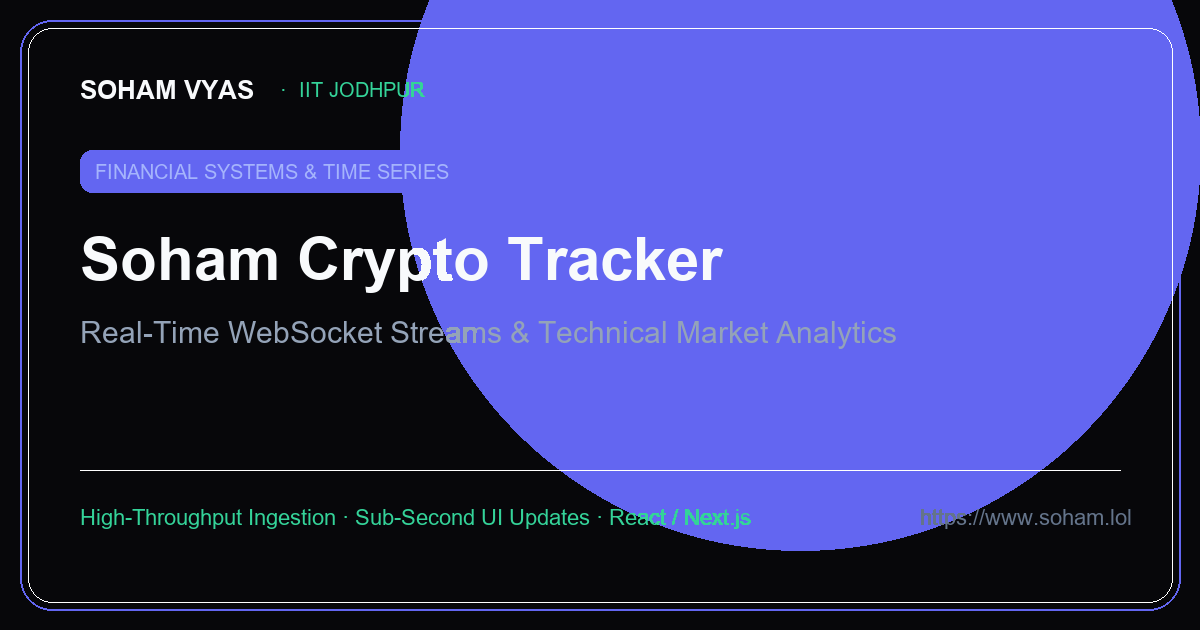
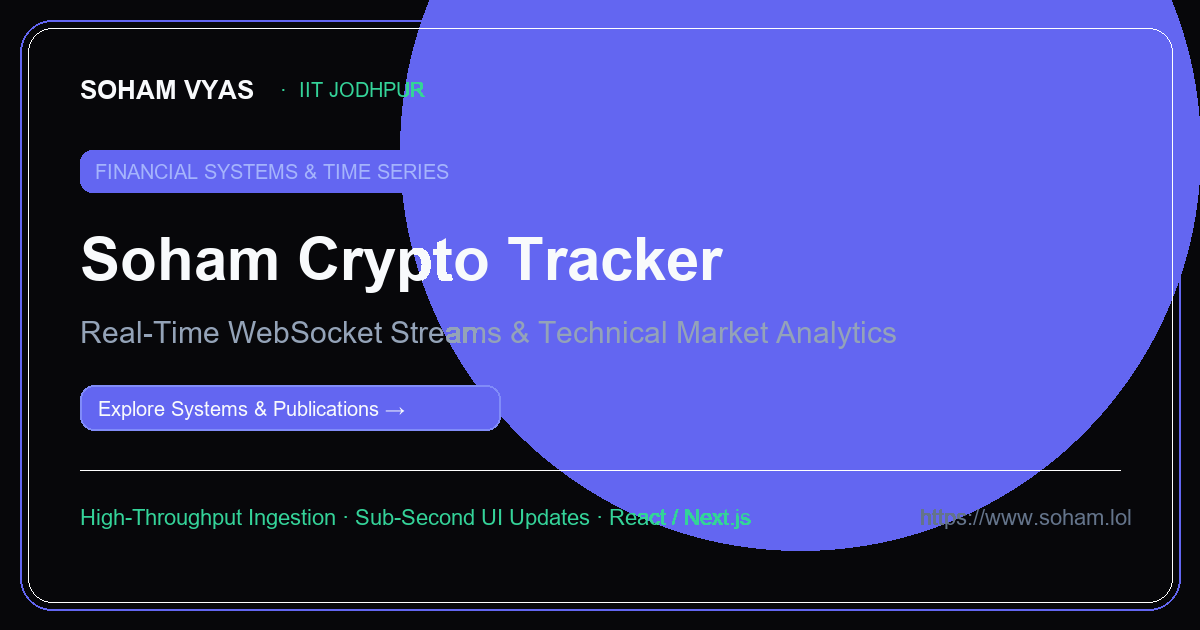
fix(seo): optimize title & description character lengths for social cards, add conversion CTA to OG images

Changed region(s): [[0.0617, 0.6032, 0.4317, 0.6937]]

diff --git a/app/layout.tsx b/app/layout.tsx
@@ -20,11 +20,11 @@ const outfit = Outfit({
 export const metadata: Metadata = {
   metadataBase: new URL("https://www.soham.lol"),
   title: {
-    default: "Soham Vyas — IIT Jodhpur | AI Systems Engineer & Open Source Contributor",
-    template: "%s | Soham Vyas — IIT Jodhpur",
+    default: "Soham Vyas — IIT Jodhpur | AI Systems Engineer",
+    template: "%s | Soham Vyas",
   },
   description:
-    "Official portfolio of Soham Vyas, Bachelor of Science (Hons) in Data Science & AI at IIT Jodhpur. Building production AI systems and SymPy matrix logic.",
+    "Undergraduate in Data Science & AI at IIT Jodhpur. Building production AI systems, atomic Redis rate limiters, and upstream SymPy computer algebra.",
   keywords: [
     "Soham Vyas",
     "Soham Vyas IIT",
@@ -59,24 +59,24 @@ export const metadata: Metadata = {
     type: "website",
     locale: "en_US",
     url: "https://www.soham.lol/",
-    title: "Soham Vyas — IIT Jodhpur | AI Systems Engineer & Open Source Contributor",
+    title: "Soham Vyas — IIT Jodhpur | AI Systems Engineer",
     description:
-      "Official portfolio of Soham Vyas, Bachelor of Science (Hons) in Data Science & AI at IIT Jodhpur. Building production AI systems, rate limiters, neural speech pipelines, and SymPy computer algebra contributions.",
-    siteName: "Soham Vyas | IIT Jodhpur Portfolio",
+      "Data Science & AI at IIT Jodhpur. Building production systems, atomic Redis rate limiters, and upstream SymPy computer algebra.",
+    siteName: "Soham Vyas | IIT Jodhpur",
     images: [
       {
         url: "https://www.soham.lol/assets/og-image.png",
         width: 1200,
         height: 630,
-        alt: "Soham Vyas — IIT Jodhpur | AI Systems Engineer & Open Source Contributor",
+        alt: "Soham Vyas — IIT Jodhpur | AI Systems Engineer",
       },
     ],
   },
   twitter: {
     card: "summary_large_image",
-    title: "Soham Vyas — IIT Jodhpur | AI Systems Engineer & Open Source Contributor",
+    title: "Soham Vyas — IIT Jodhpur | AI Systems Engineer",
     description:
-      "Bachelor of Science (Hons) in Data Science & AI @ IIT Jodhpur. Building production-grade systems and contributing to SymPy.",
+      "Data Science & AI at IIT Jodhpur. Building production systems, atomic Redis rate limiters, and upstream SymPy computer algebra.",
     images: ["https://www.soham.lol/assets/og-image.png"],
     creator: "@Soham_Vyas_",
   },

diff --git a/app/page.tsx b/app/page.tsx
@@ -14,8 +14,33 @@ import CommandPalette from "./components/CommandPalette";
 import Parallax3DBackground from "./components/Parallax3DBackground";
 
 export const metadata: Metadata = {
+  title: "Soham Vyas — IIT Jodhpur | AI Systems Engineer",
+  description:
+    "Undergraduate in Data Science & AI at IIT Jodhpur. Building production AI systems, atomic Redis rate limiters, and upstream SymPy computer algebra.",
   alternates: {
     canonical: "https://www.soham.lol/",
+  },
+  openGraph: {
+    title: "Soham Vyas — IIT Jodhpur | AI Systems Engineer",
+    description:
+      "Data Science & AI at IIT Jodhpur. Building production systems, atomic Redis rate limiters, and upstream SymPy computer algebra.",
+    url: "https://www.soham.lol/",
+    images: [
+      {
+        url: "https://www.soham.lol/assets/og-image.png",
+        width: 1200,
+        height: 630,
+        alt: "Soham Vyas — IIT Jodhpur | AI Systems Engineer",
+      },
+    ],
+  },
+  twitter: {
+    card: "summary_large_image",
+    title: "Soham Vyas — IIT Jodhpur | AI Systems Engineer",
+    description:
+      "Data Science & AI at IIT Jodhpur. Building production systems, atomic Redis rate limiters, and upstream SymPy computer algebra.",
+    images: ["https://www.soham.lol/assets/og-image.png"],
+    creator: "@Soham_Vyas_",
   },
 };
 

diff --git a/scripts/generate_og_images.py b/scripts/generate_og_images.py
@@ -90,7 +90,16 @@ cards = [
         "badge": "DISTRIBUTED AUDIT TELEMETRY",
         "title": "SocialLogger Analytics",
         "subtitle": "High-Throughput Social Interaction Logger & Telemetry Pipeline",
+        "cta": "Inspect Telemetry Pipeline →",
         "footer": "Structured Event Logging · Audit Trails · Scalable Backend"
+    },
+    {
+        "filename": "../og-image.png",
+        "badge": "AI SYSTEMS & COMPUTER ALGEBRA",
+        "title": "Soham Vyas — IIT Jodhpur",
+        "subtitle": "Production Systems, Atomic Lua Limiters & SymPy Core",
+        "cta": "Explore Systems & Publications →",
+        "footer": "Bachelor of Science (Hons) · Upstream Contributor · www.soham.lol"
     }
 ]
 
@@ -134,6 +143,12 @@ def generate_card(card):
     # 6. Main Title & Subtitle
     draw.text((80, 225), card["title"], fill=TEXT_WHITE, font=font_title)
     draw.text((80, 315), card["subtitle"], fill=TEXT_MUTED, font=font_sub)
+
+    # 6.5 Call-To-Action (CTA) Pill
+    cta_text = card.get("cta", "Explore Systems & Publications →")
+    cta_width = len(cta_text) * 12 + 36
+    draw.rounded_rectangle([80, 385, 80 + cta_width, 430], radius=14, fill=(99, 102, 241, 50), outline=(129, 140, 248), width=2)
+    draw.text((98, 397), cta_text, fill=(248, 250, 252), font=font_badge)
 
     # 7. Divider Line
     draw.line([(80, 470), (w - 80, 470)], fill=(255, 255, 255, 30), width=1)

diff --git a/scripts/check_rendered_meta.py b/scripts/check_rendered_meta.py
@@ -1,0 +1,15 @@
+with open(r'C:/Users/dell/.gemini/antigravity/scratch/gsoc2027/myweb/out/index.html', 'r', encoding='utf-8') as f:
+    html = f.read()
+
+import re
+t = re.search(r'<title>(.*?)</title>', html).group(1)
+og_t = re.search(r'property="og:title" content="(.*?)"', html).group(1)
+og_d = re.search(r'property="og:description" content="(.*?)"', html).group(1)
+tw_t = re.search(r'name="twitter:title" content="(.*?)"', html).group(1)
+tw_d = re.search(r'name="twitter:description" content="(.*?)"', html).group(1)
+
+print(f"<title>: {t} ({len(t)} chars)")
+print(f"og:title: {og_t} ({len(og_t)} chars)")
+print(f"og:description: {og_d} ({len(og_d)} chars)")
+print(f"twitter:title: {tw_t} ({len(tw_t)} chars)")
+print(f"twitter:description: {tw_d} ({len(tw_d)} chars)")
